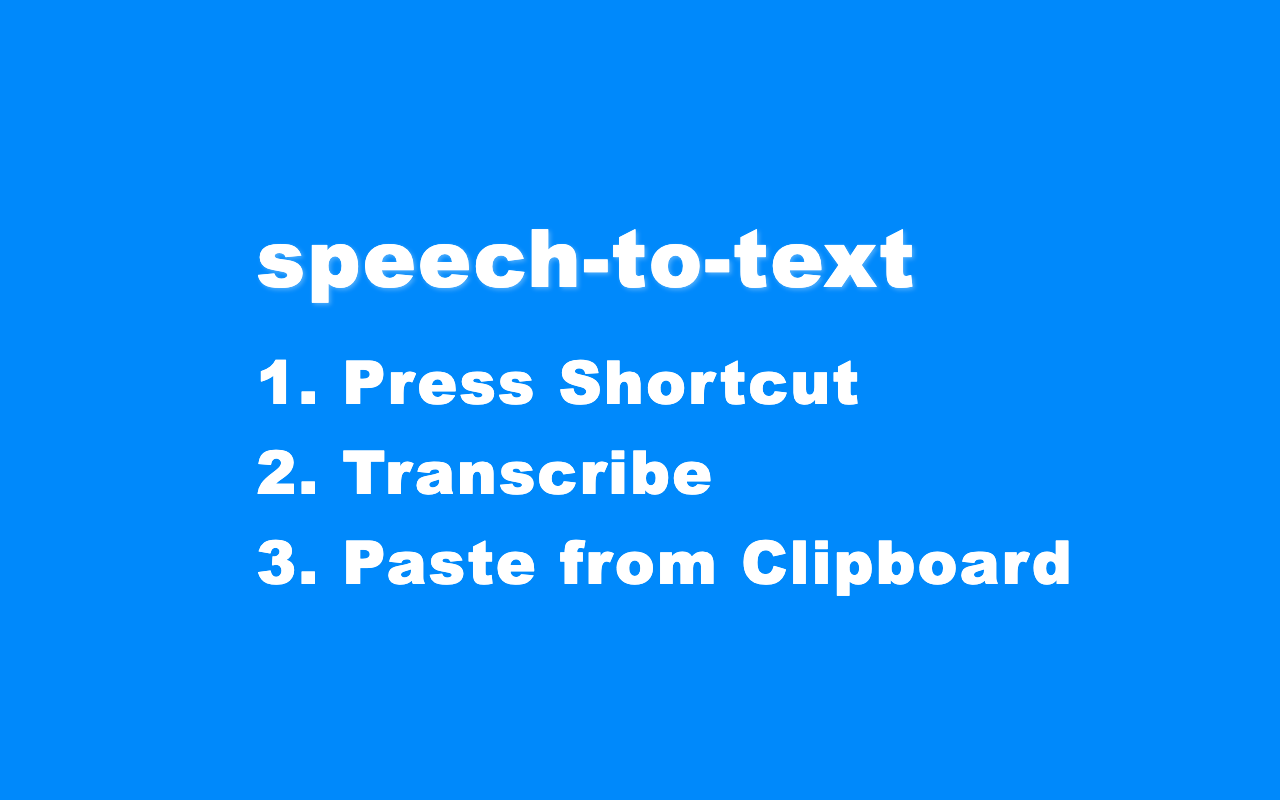
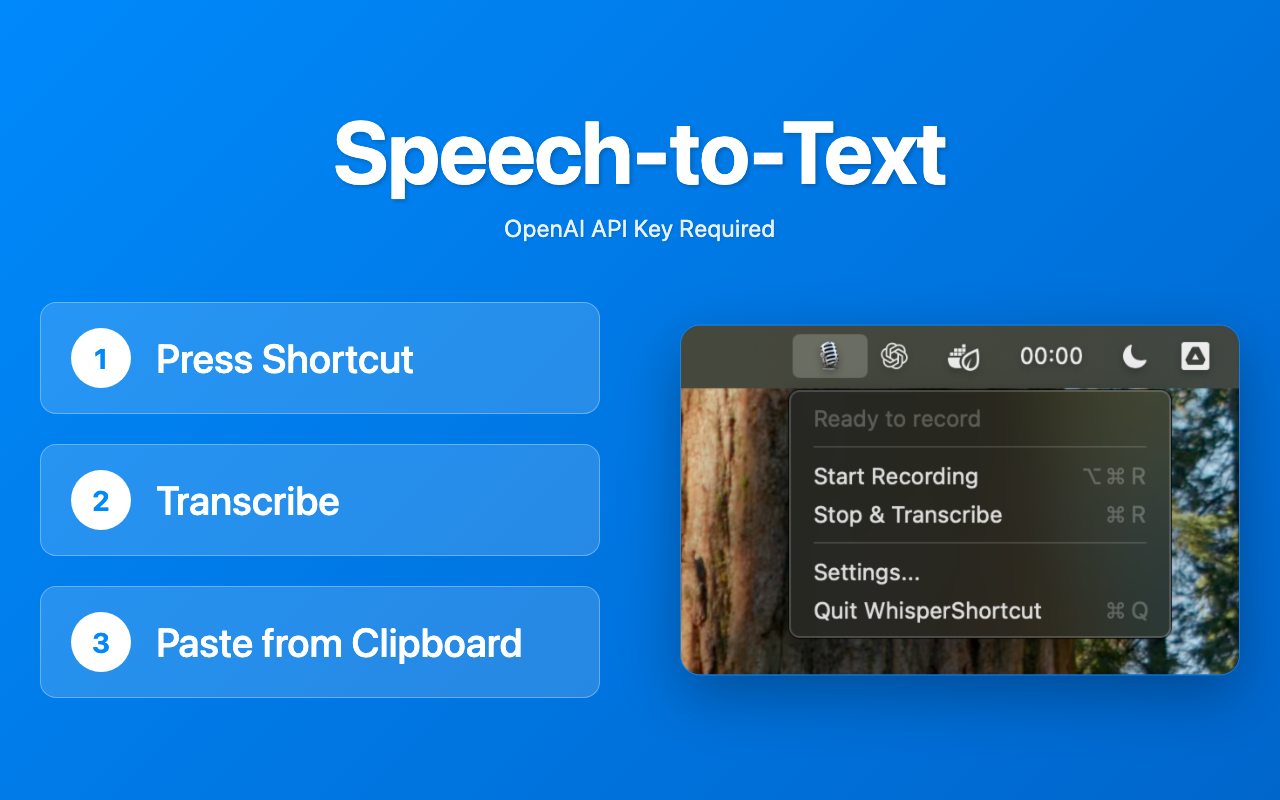
More professional screenshot.

diff --git a/screenshots/index.html b/screenshots/index.html
@@ -4,53 +4,162 @@
 <head>
     <meta charset="UTF-8">
     <meta name="viewport" content="width=device-width, initial-scale=1.0">
-    <title>Transcribe Clipboard</title>
+    <title>WhisperShortcut - Speech to Text</title>
     <style>
-        body {
+        * {
             margin: 0;
             padding: 0;
-            background-color: #0089fb;
+            box-sizing: border-box;
+        }
+
+        body {
+            background: linear-gradient(135deg, #0089fb 0%, #0066cc 100%);
             color: #ffffff;
-            font-family: 'Arial Black', 'Helvetica Bold', sans-serif;
+            font-family: -apple-system, BlinkMacSystemFont, 'Segoe UI', Roboto, sans-serif;
             display: flex;
+            flex-direction: column;
             justify-content: center;
             align-items: center;
             min-height: 100vh;
-            font-size: 60px;
+            padding: 40px;
         }
 
-        div {
-            color: #ffffff;
-            font-weight: bold;
-            letter-spacing: 2px;
-            line-height: 1.5;
+        .header {
             text-align: center;
+            margin-bottom: 60px;
         }
 
-        .heading {
-            font-size: 80px;
-            margin-bottom: 20px;
-            text-shadow: 2px 2px 4px rgba(255, 255, 255, 0.3);
+        .app-title {
+            font-size: 88px;
+            font-weight: 700;
             color: #ffffff;
-            text-align: left;
-            margin-left: 50px;
+            letter-spacing: -1px;
+            line-height: 1.1;
+            text-shadow: 2px 2px 4px rgba(0, 0, 0, 0.2);
+            margin-bottom: 15px;
         }
 
-        .content {
-            font-size: 60px;
-            text-align: left;
-            margin-left: 50px;
+        .app-subtitle {
+            font-size: 24px;
+            font-weight: 400;
+            color: rgba(255, 255, 255, 0.9);
+            letter-spacing: 0.5px;
+            text-shadow: 1px 1px 2px rgba(0, 0, 0, 0.1);
+        }
+
+        .main-content {
+            display: flex;
+            align-items: center;
+            justify-content: space-between;
+            width: 100%;
+            max-width: 1600px;
+            gap: 80px;
+        }
+
+        .steps {
+            display: flex;
+            flex-direction: column;
+            gap: 30px;
+            flex: 1;
+            max-width: 600px;
+        }
+
+        .step {
+            display: flex;
+            align-items: center;
+            gap: 25px;
+            padding: 25px 30px;
+            background: rgba(255, 255, 255, 0.15);
+            border-radius: 16px;
+            border: 1px solid rgba(255, 255, 255, 0.3);
+        }
+
+        .step-number {
+            width: 60px;
+            height: 60px;
+            background: #ffffff;
+            border-radius: 50%;
+            display: flex;
+            align-items: center;
+            justify-content: center;
+            font-size: 28px;
+            font-weight: 700;
+            color: #0089fb;
+            flex-shrink: 0;
+        }
+
+        .step-text {
+            font-size: 40px;
+            font-weight: 500;
+            color: #ffffff;
+        }
+
+        .dropdown-section {
+            flex: 1;
+            display: flex;
+            justify-content: center;
+            align-items: center;
+        }
+
+        .dropdown-image {
+            position: relative;
+            display: flex;
+            justify-content: center;
+            align-items: center;
+        }
+
+        .dropdown-image img {
+            max-width: 100%;
+            max-height: 70vh;
+            object-fit: contain;
+            border-radius: 20px;
+            box-shadow: 0 20px 60px rgba(0, 0, 0, 0.3);
+            border: 1px solid rgba(255, 255, 255, 0.1);
+        }
+
+        @media (max-width: 1200px) {
+            .main-content {
+                flex-direction: column;
+                gap: 60px;
+            }
+
+            .steps {
+                max-width: 100%;
+            }
+
+            .step-text {
+                font-size: 28px;
+            }
         }
     </style>
 </head>
 
 <body>
-    <div>
-        <div class="heading">speech-to-text</div>
-        <div class="content">
-            1. Press Shortcut<br>
-            2. Transcribe<br>
-            3. Paste from Clipboard
+    <div class="header">
+        <h1 class="app-title">Speech-to-Text</h1>
+        <p class="app-subtitle">OpenAI API Key Required</p>
+    </div>
+
+    <div class="main-content">
+        <div class="steps">
+            <div class="step">
+                <div class="step-number">1</div>
+                <div class="step-text">Press Shortcut</div>
+            </div>
+            <div class="step">
+                <div class="step-number">2</div>
+                <div class="step-text">Transcribe</div>
+            </div>
+            <div class="step">
+                <div class="step-number">3</div>
+                <div class="step-text">Paste from Clipboard</div>
+            </div>
+        </div>
+
+        <div class="dropdown-section">
+            <div class="dropdown-image">
+                <img src="dropdown.png" alt="WhisperShortcut Menubar Dropdown" />
+            </div>
         </div>
     </div>
 </body>
